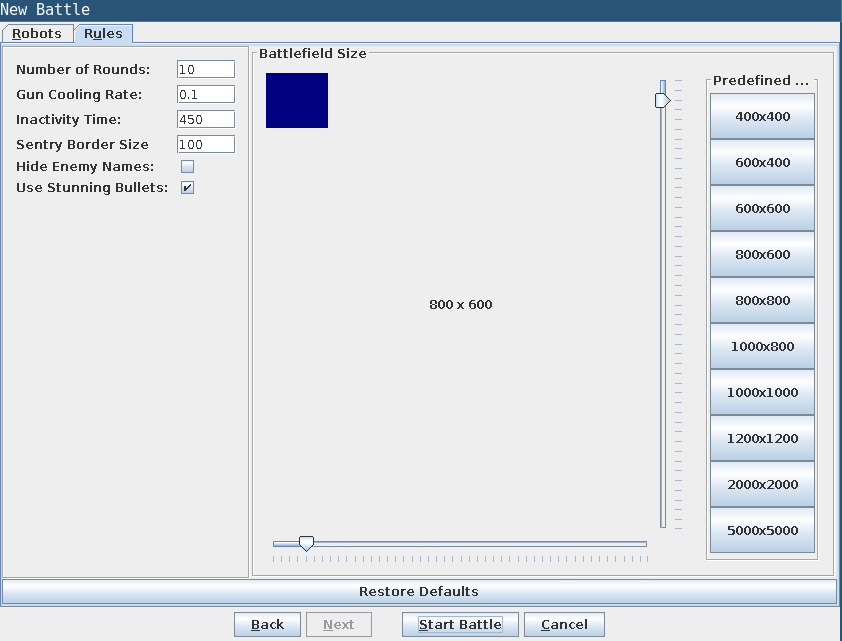
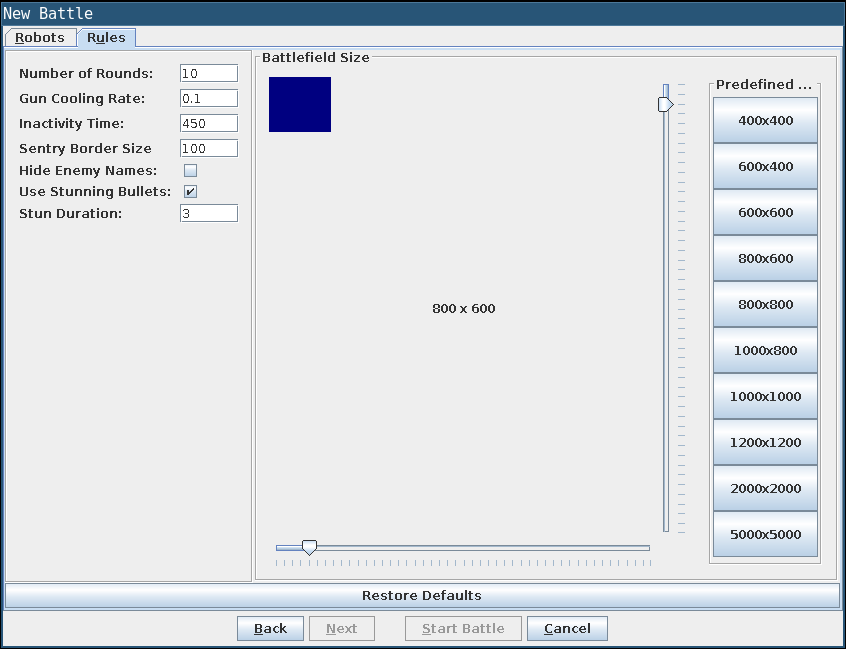
Update `README.md`

Changed region(s): [[0.0, 0.0, 1.0, 1.0], [0.4941, 0.468, 0.5867, 0.4992], [0.772, 0.1248, 0.8029, 0.1872]]

diff --git a/README.md b/README.md
@@ -8,11 +8,20 @@
 ## Preview
 ![preview](./assets/readme/preview.gif)
 
+## Details
+The extension allows to create a new battle that uses `Stunning Bullets`. When a robot is hit by one of these bullets it will be stunned by a variable number of turns. The number of turns is proportional to the energy spent to fire the bullet and the `Stun Duration` parameter set in the `Rules` tab.
+
+When a robot is stunned it cannot move nor fire. If a robot is hit while being stunned the new stun duration will be the maximum between the current remaining stunned turns and the stun duration of this new bullet impact.
+
 ## Usage
-To use stunning bullets simply start a new battle, and check `Use Stunning Bullets` in the rules tab:
+To use stunning bullets simply start a new battle, and check `Use Stunning Bullets` in the rules tab. Additionally you can change the default `Stun Duration`.
 ![rules tab](./assets/readme/rules.png)
 
-
+## How It Works
+- When a new battle is created, the `BattleRules` class stores whether `Stunning Bullets` are enabled and what the configured `Stun Duration` is.
+- When each `RobotPeer` is constructed, it creates and stores an appropriate `BulletEffect` instance based on the values from `BattleRules`.
+- In the `BulletPeer` method `checkRobotCollision`, when a bullet hits a robot, the bullet notifies the corresponding `BulletEffect` (held by the shooting robot’s `RobotPeer`), which then applies the effect to the target robot.
+![uml](./assets/uml/uml.png)
 ## Resources
 - [Robocode home page]
 - [Introduction] to Robocode
